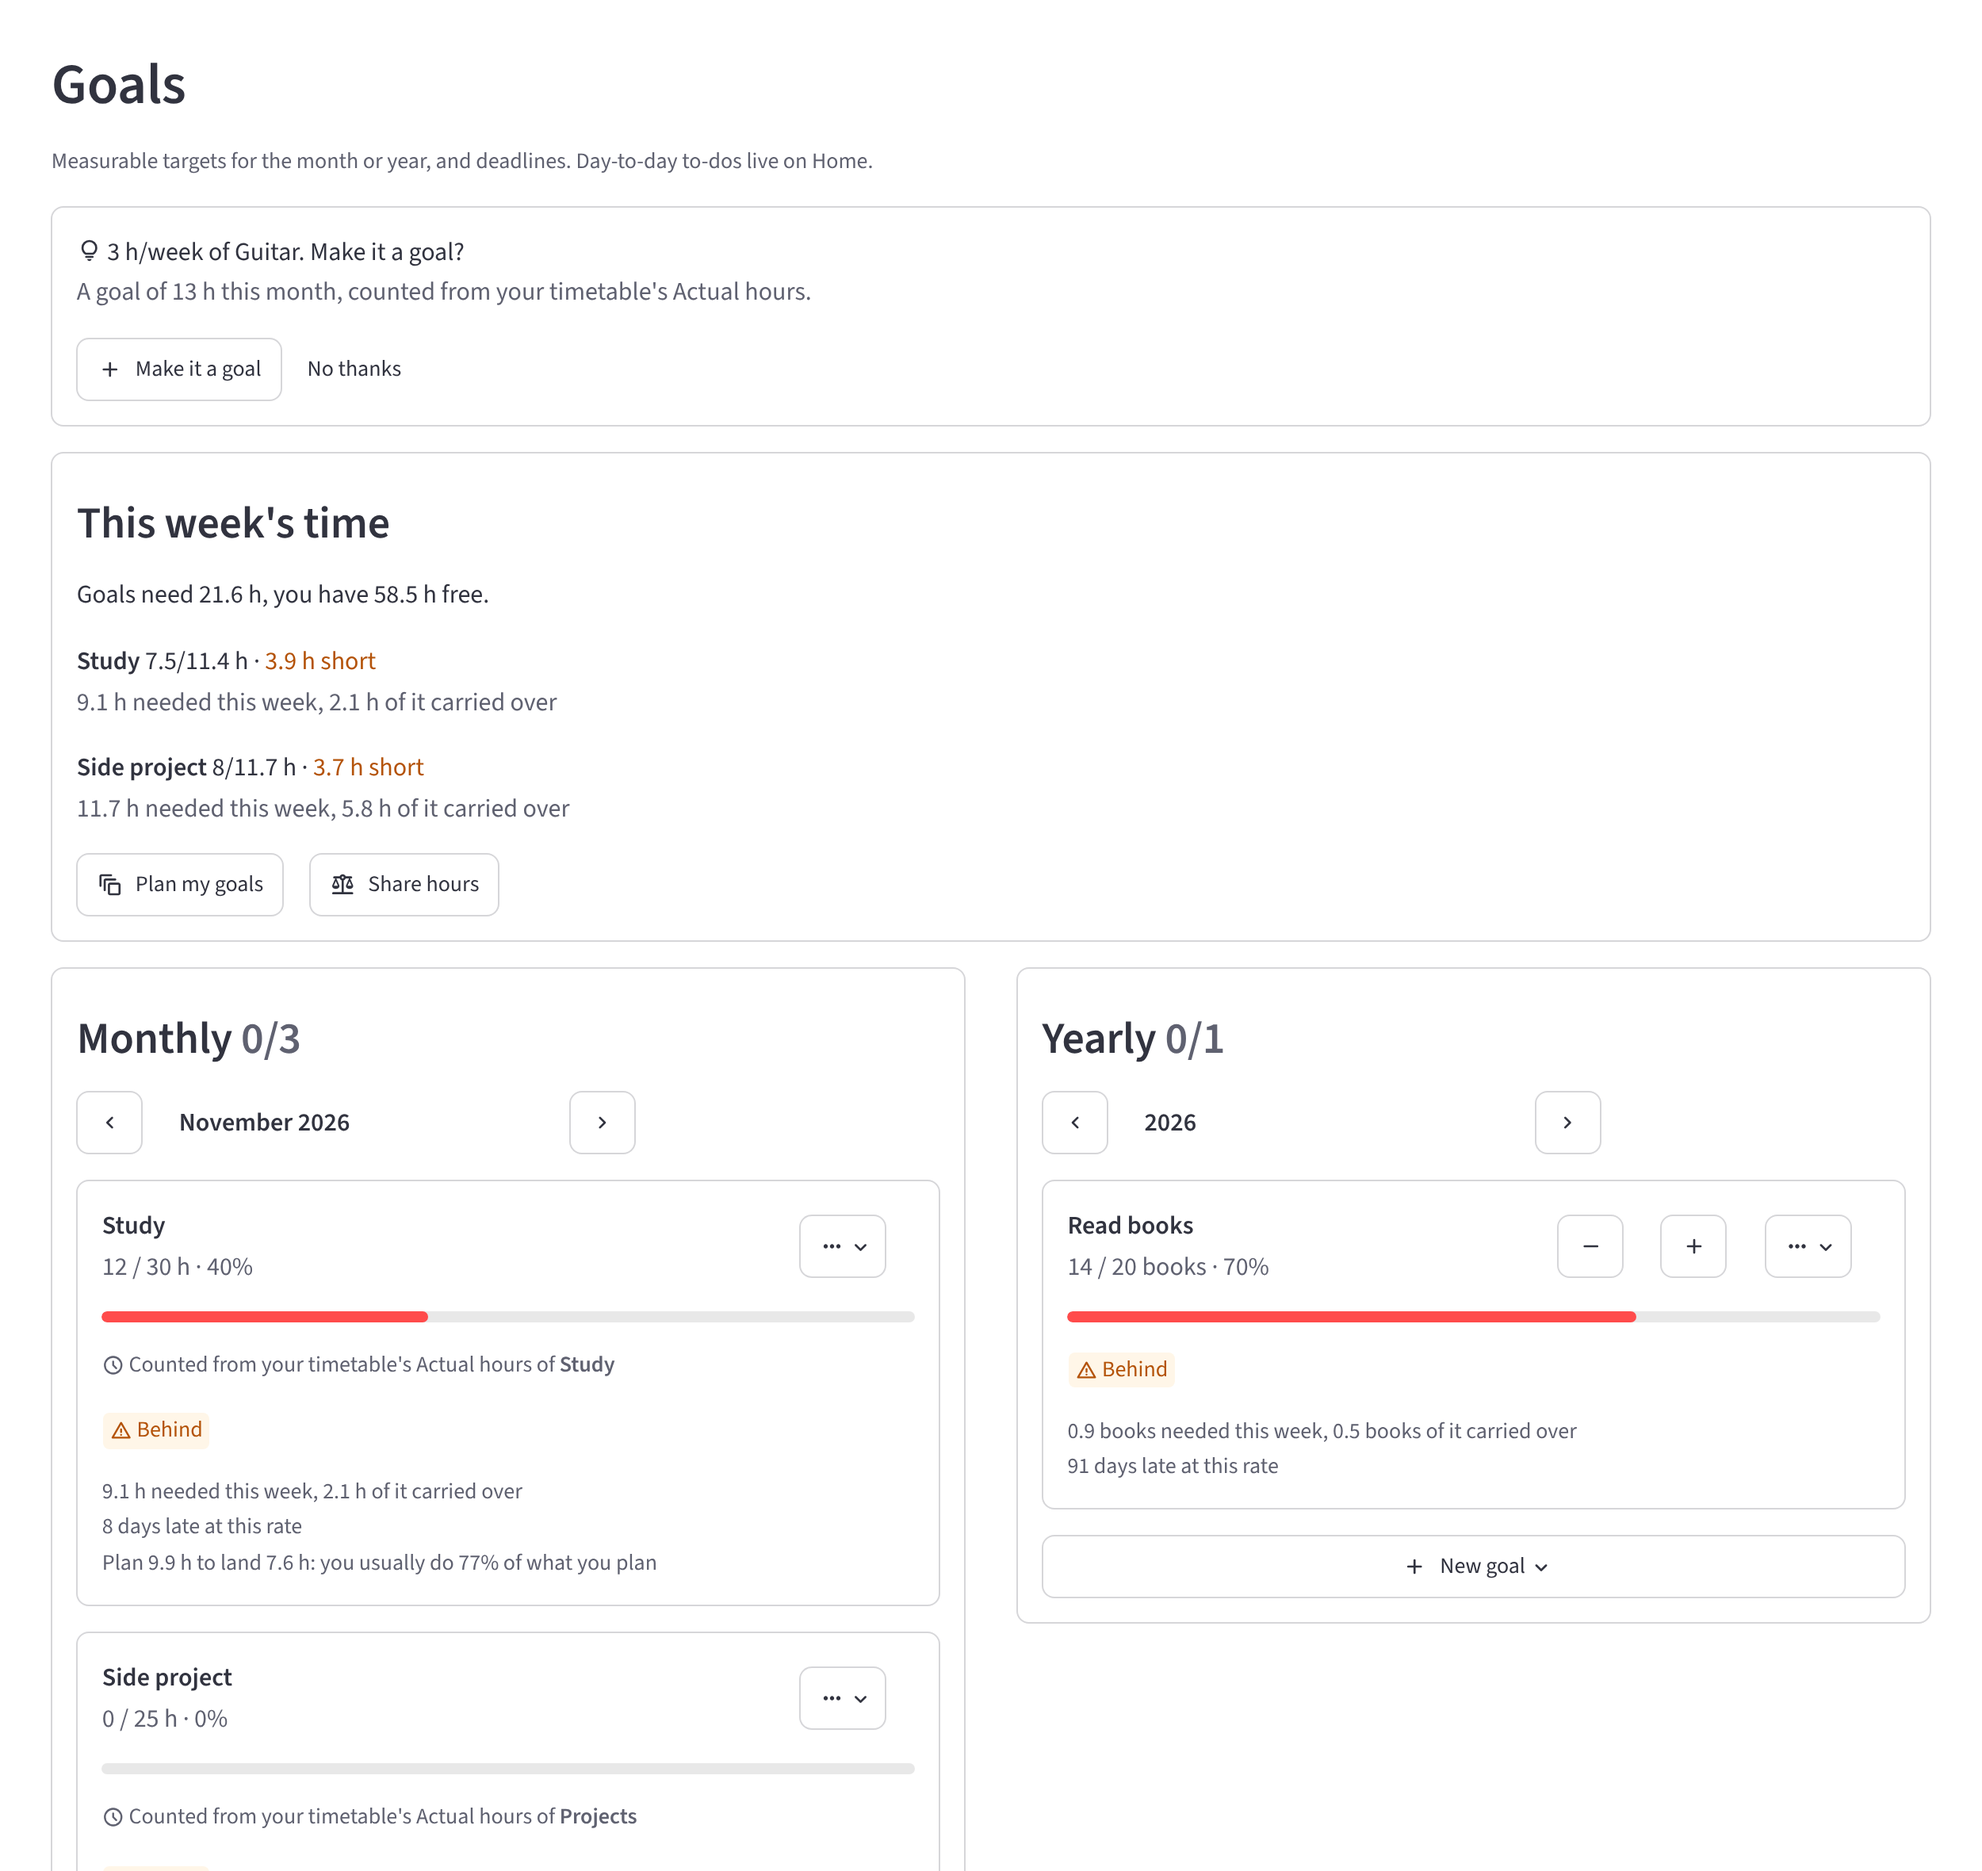
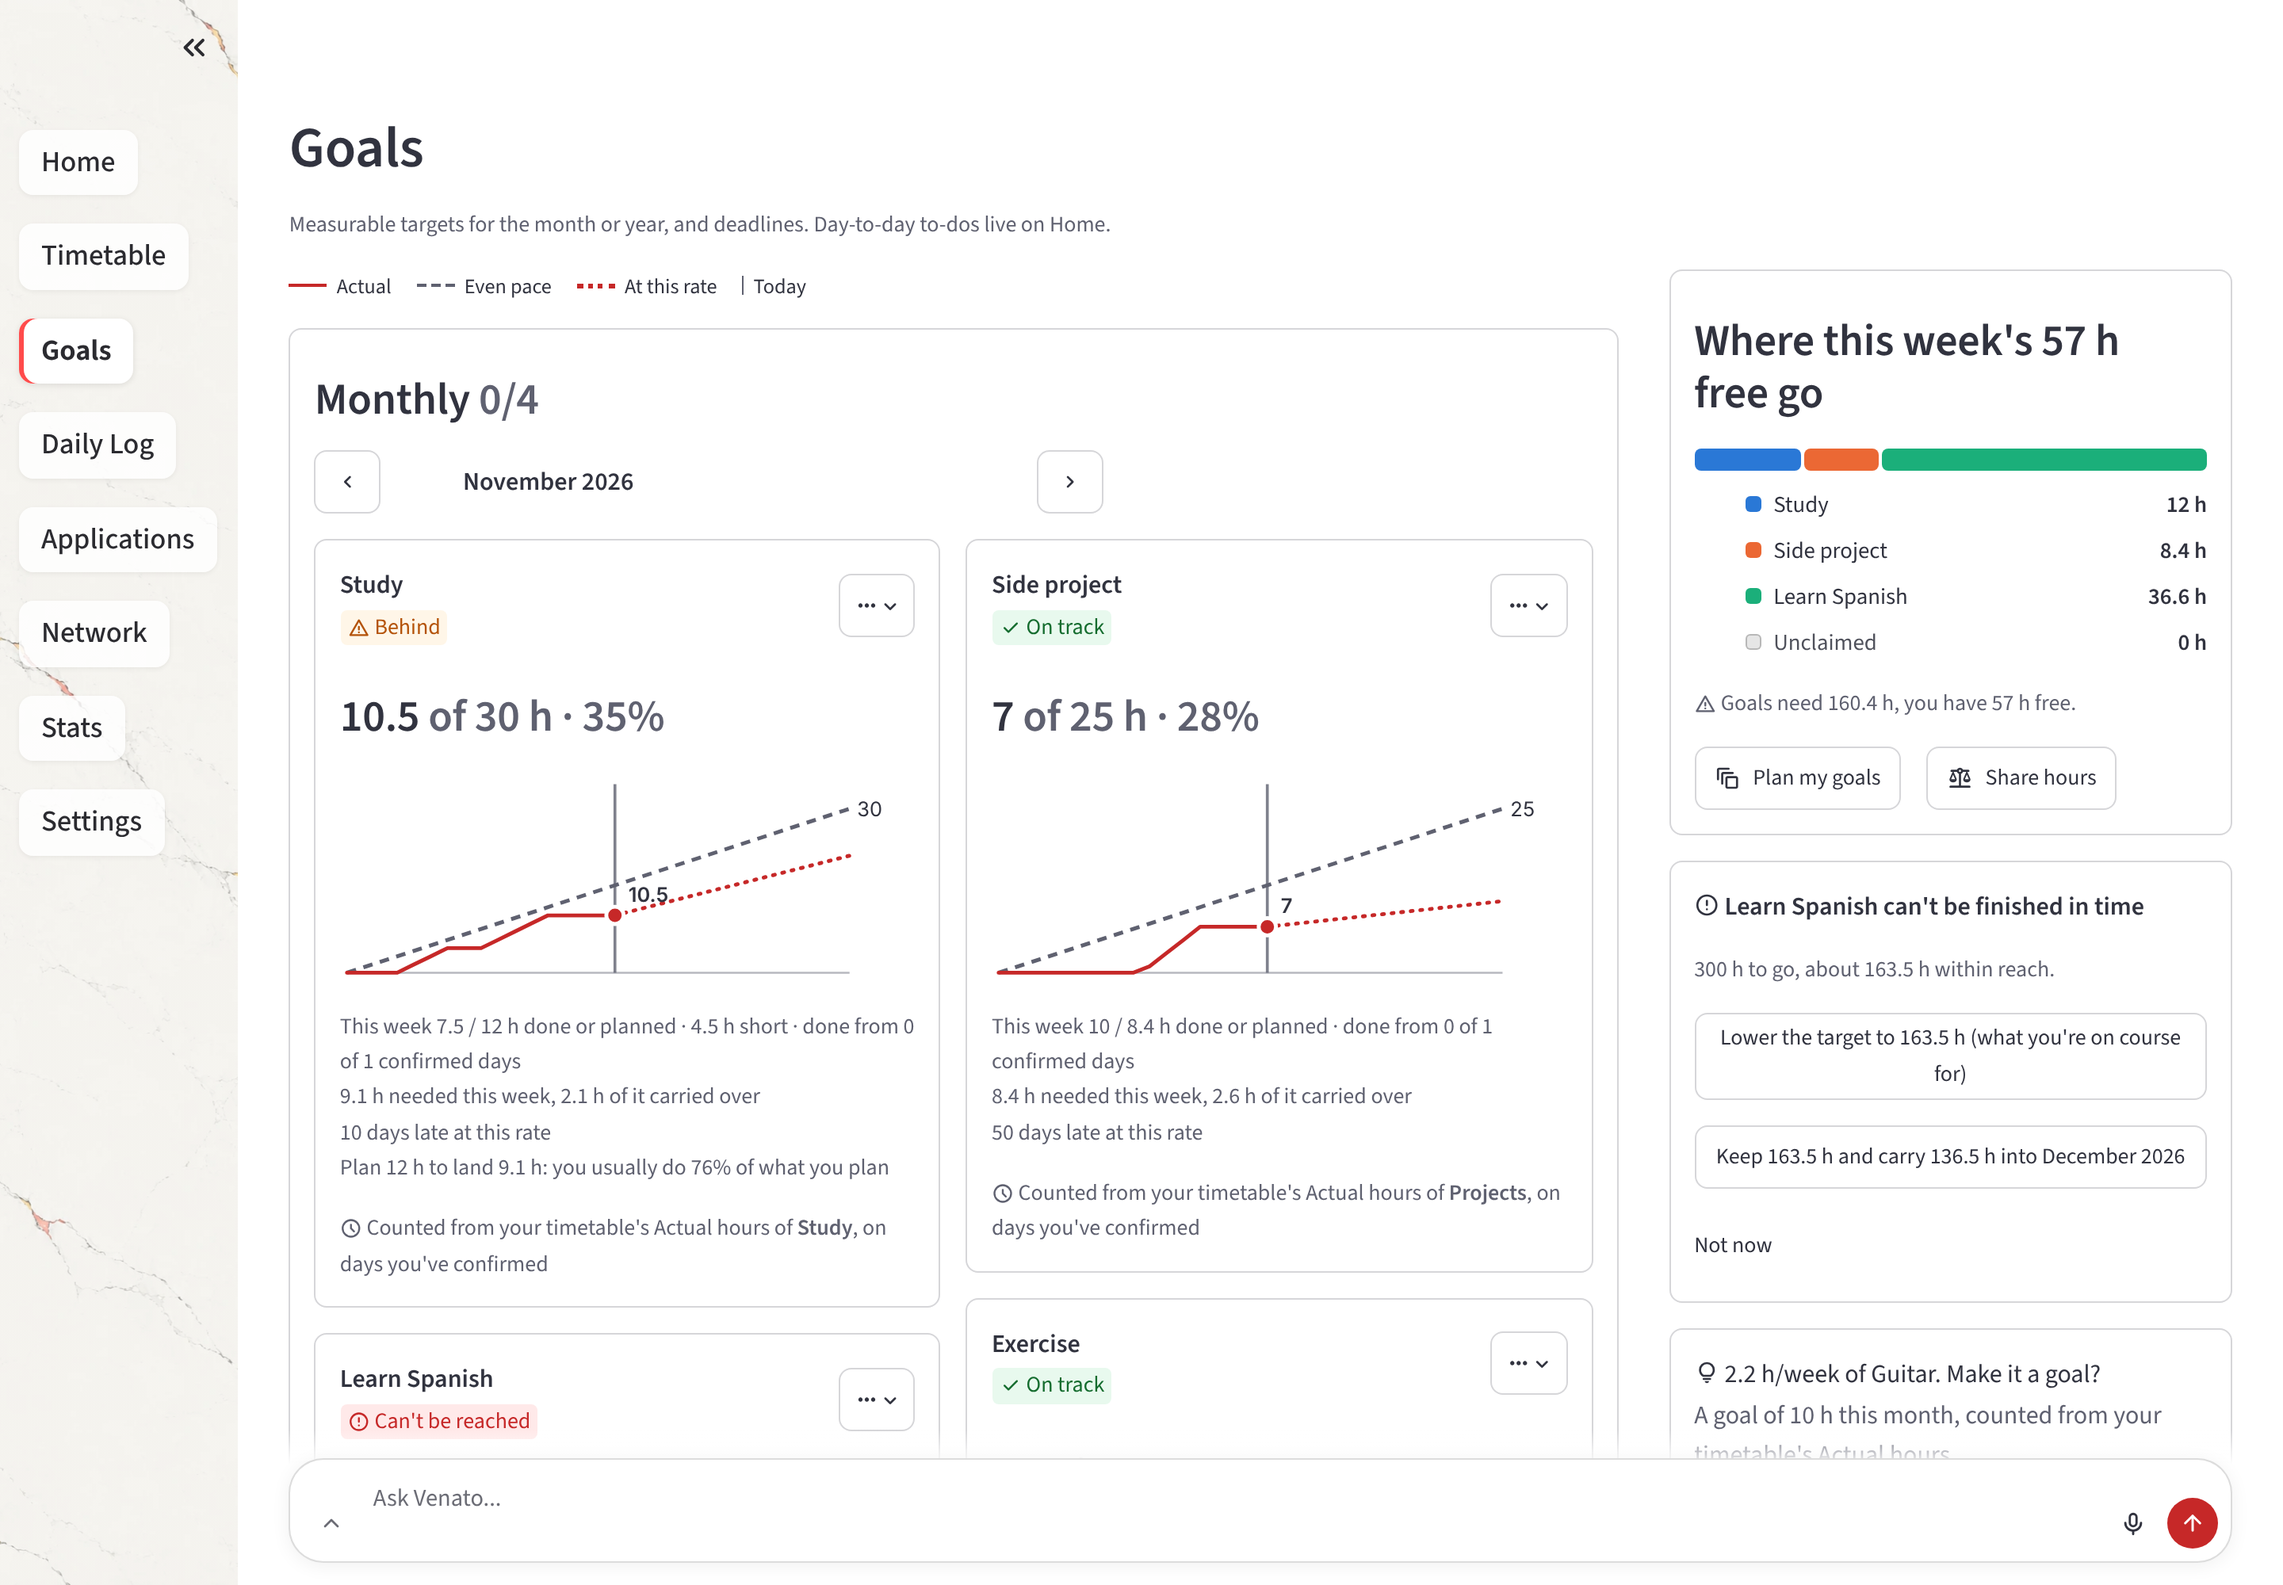
Accessibility and verification fixes, seed data, README screenshots
- Block text picks black or white by WCAG contrast (white on the bright red
  category was 4:1); suggested-sitting text and Home's "Now" label meet 4.5:1.
- The card of a skipped block no longer errors (so keyboard focus moves into it).
- Demo seed: last week as one timeline (confirmed, corrected, assumed), a goal
  that can't be finished. New README screenshots; goal-chips.png removed.

Claude-Session: https://claude.ai/code/session_01GkyjYC3kuxce9UHF6P5JRL

diff --git a/venato/ui/components/timetable_component.js b/venato/ui/components/timetable_component.js
@@ -139,12 +139,13 @@ function weekTitle(first, last) {
   return `${start} – ${b.getDate()} ${mon(b)} ${b.getFullYear()}`;
 }
 
-// Block text is black, except on genuinely dark fills (deep purple, pure red...),
-// where it's white. Deliberately lenient: mid colours like Uni blue stay black.
+// Block text is black or white, whichever contrasts more with the fill (WCAG), so it's 4.5:1 or
+// better on any category colour: black on mid colours and bright red, white on deep purple or navy.
 function contrastText(hex) {
   const n = parseInt(hex.slice(1), 16);
-  const [r, g, b] = [n >> 16, (n >> 8) & 255, n & 255];
-  return 0.299 * r + 0.587 * g + 0.114 * b > 90 ? "#000000" : "#ffffff";
+  const lin = (c) => { c /= 255; return c <= 0.03928 ? c / 12.92 : ((c + 0.055) / 1.055) ** 2.4; };
+  const L = 0.2126 * lin(n >> 16) + 0.7152 * lin((n >> 8) & 255) + 0.0722 * lin(n & 255);
+  return (L + 0.05) / 0.05 >= 1.05 / (L + 0.05) ? "#000000" : "#ffffff";
 }
 
 const uid = () =>
@@ -1611,6 +1612,7 @@ class Timetable {
     if (this.data.readonly) return;
     const on = (sel, fn) => { const el = card.querySelector(sel); if (el) el.addEventListener("click", fn); };
     on(".undo-skip", () => { this.replacePiece(p, this.pieceBlock(p)); this.closePopover(); });
+    if (p.kind === "skipped") return;                // (its card has just "It did happen")
     on(".skip", () => { this.skipPiece(p); this.closePopover(); });
     const show = (which) => {
       for (const [btn, form] of [[".times", ".f-times"], [".other", ".f-other"]]) {

diff --git a/venato/ui/components/timetable_component.css b/venato/ui/components/timetable_component.css
@@ -414,4 +414,4 @@ th.day .dstate .confirm:hover { background: color-mix(in srgb, var(--accent) 12%
   color: var(--text);
   z-index: 0;
 }
-.blk.ghost span { opacity: 1; color: var(--muted); }
+.blk.ghost span { opacity: 1; color: var(--text); }

diff --git a/venato/ui/home.py b/venato/ui/home.py
@@ -9,6 +9,7 @@ import streamlit as st
 
 from venato import regional
 from venato import store
+from venato.ui import appearance
 from venato.ui import chat
 from venato.ui import search
 from venato.ui import timetable
@@ -54,7 +55,7 @@ def _agenda():
       .ag-dot {{ width: 9px; height: 9px; border-radius: 3px; flex: none; }}
       .ag-time {{ min-width: 6.5em; white-space: nowrap; flex: none; opacity: 0.8; font-variant-numeric: tabular-nums; }}
       .ag-label {{ min-width: 0; white-space: nowrap; overflow: hidden; text-overflow: ellipsis; }}
-      .ag-now {{ margin-left: auto; font-size: 0.72rem; font-weight: 600; color: #ff4b4b; }}
+      .ag-now {{ margin-left: auto; font-size: 0.72rem; font-weight: 600; color: {appearance.accent()}; }}
       .ag-empty {{ opacity: 0.78; font-size: 0.86rem; }}
       .ag-ol {{ margin-left: 6px; padding: 0 6px; border: 1px solid rgba(128,128,128,.45); border-radius: 999px;
                 font-size: 0.64rem; font-weight: 500; opacity: 0.75; }}

diff --git a/scripts/seed_demo.py b/scripts/seed_demo.py
@@ -156,7 +156,7 @@ def main():
     # --- Goals: two that count timetable hours, one counting a habit, one kept by hand ---
     store.add_goal("Study", "monthly", TODAY, 30, "h", category_id="study")
     store.add_goal("Side project", "monthly", TODAY, 25, "h", category_id="projects")
-    store.add_goal("Learn Spanish", "monthly", TODAY, 120, "h", category_id="study", label="Spanish")   # can't be done in time
+    store.add_goal("Learn Spanish", "monthly", TODAY, 300, "h", category_id="study", label="Spanish")   # can't be done in time
     store.add_goal("Exercise", "monthly", TODAY, 16, "sessions", habit_id=store.find_habit("Exercise")[0])
     books = store.add_goal("Read books", "yearly", TODAY, 20, "books")
     store.set_goal_progress(books["id"], 14)

diff --git a/HANDOVER.md b/HANDOVER.md
@@ -131,7 +131,7 @@ Notes on the schema:
   - A paint carries the new block's id (`newId`), so both sides agree on it.
 - **Views:** `render_page` is the week (editable). `render_today` is Home's single day: view only, always one timeline, with rows sized to fit the window (`fitToWindow`) and the key wrapped underneath. `render_grid(view=)` picks one timeline (`"one"`) or Plan and Actual (`"split"`); the default is `store.timetable_view()` (settings.json `timetable_view`; missing = `"one"`, set to `"split"` for installs that already had blocks).
 - **Clicking a block** grows it and opens a details card (title, time, category, location, description), with Edit and Delete/Remove buttons except on Home. A drag paints, and a click with the eraser erases.
-- **Block text** is black unless the fill is dark (`contrastText`, luminance threshold 90).
+- **Block text** is black or white, whichever has the higher WCAG contrast with the fill (`contrastText`).
 
 ## 5b. To-dos and goals
 

diff --git a/README.md b/README.md
@@ -93,13 +93,13 @@
 
 *All screenshots use made-up demo data.*
 
-| Weekly timetable | Asking Claude |
+| Weekly timetable: suggested sittings and the planner | Asking Claude |
 |---|---|
 | ![Weekly timetable](assets/timetable.png) | ![Chat](assets/chat.png) |
 | **Daily log** | **Settings** |
 | ![Daily log](assets/daily-log.png) | ![Settings](assets/settings.png) |
-| **Goal chips on the timetable** | **Goals: pace and this week's time** |
-| ![Goal chips above the timetable](assets/goal-chips.png) | ![Goals page](assets/goals.png) |
+| **Last week as one timeline: confirmed, corrected, assumed** | **Goals: pace charts and where the week's free time goes** |
+| ![Last week on the timetable](assets/timetable-past.png) | ![Goals page](assets/goals.png) |
 
 ## Quick start
 
